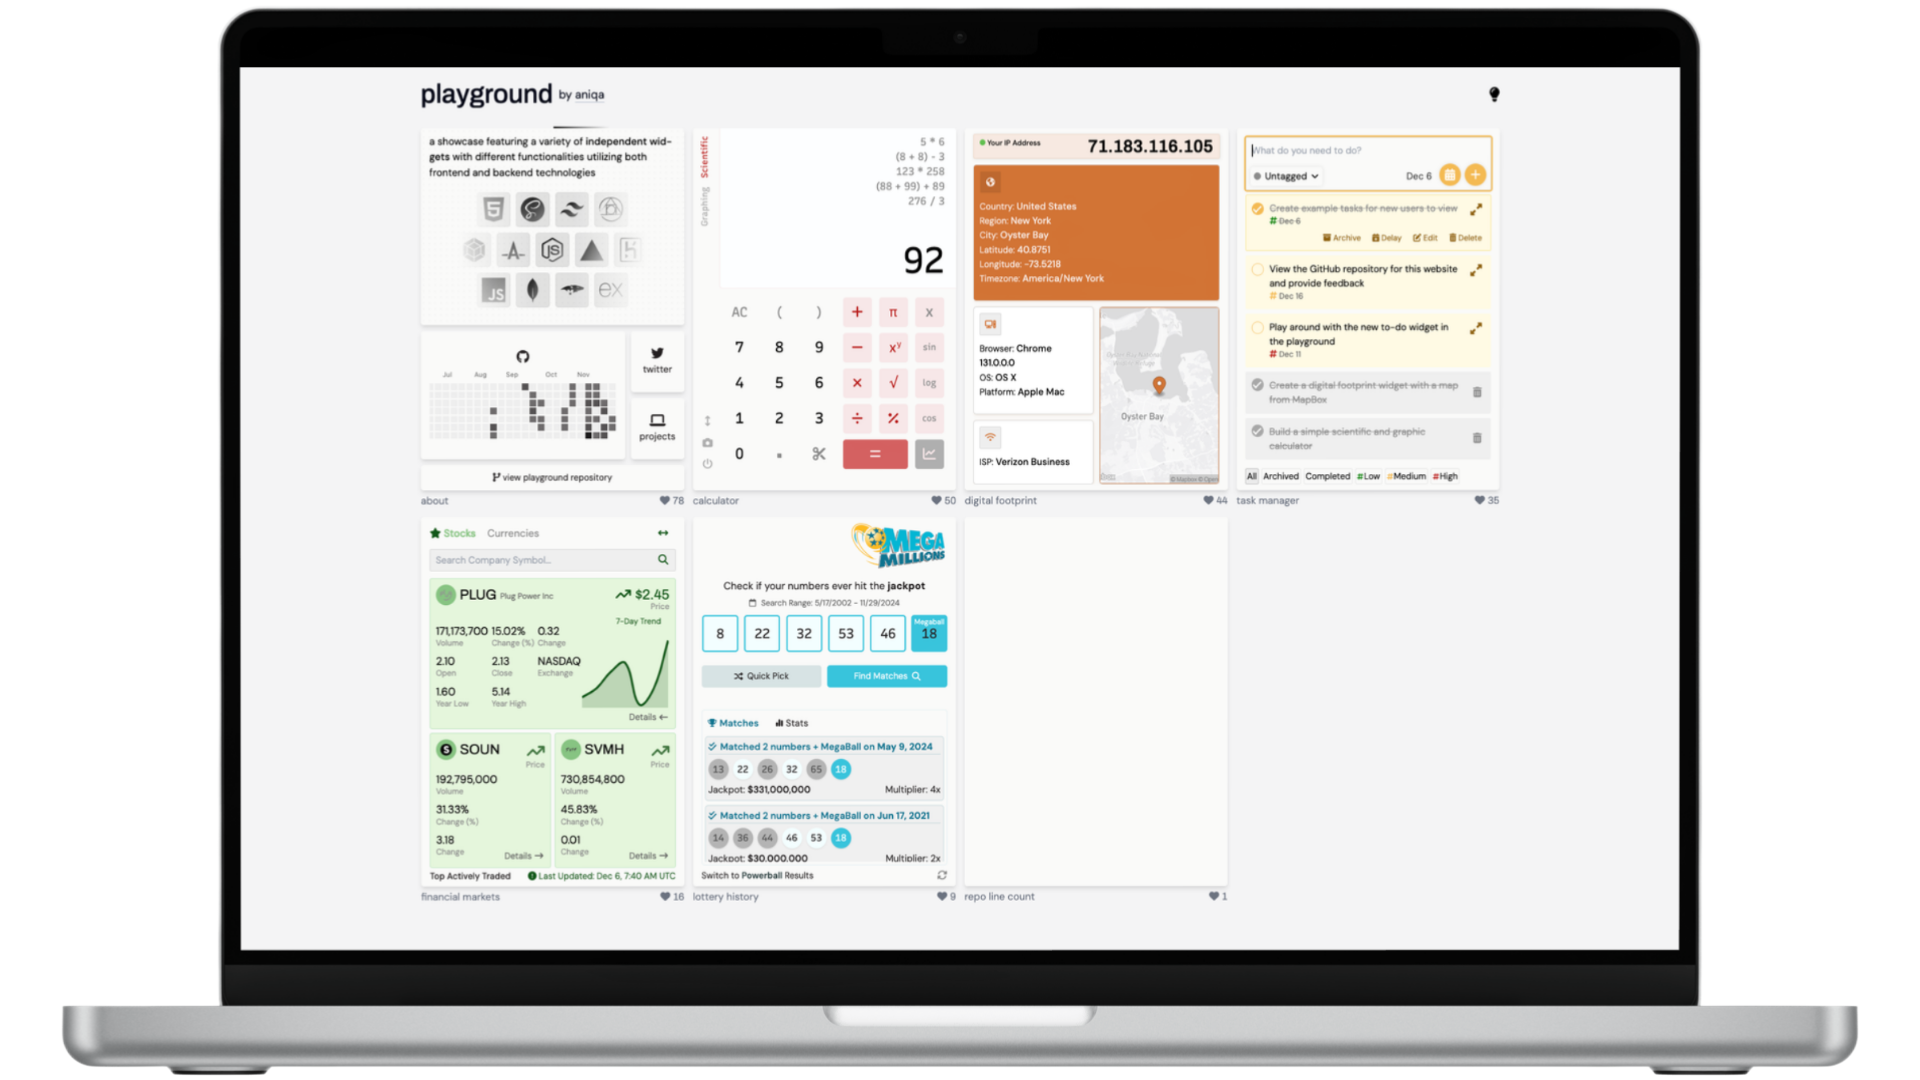
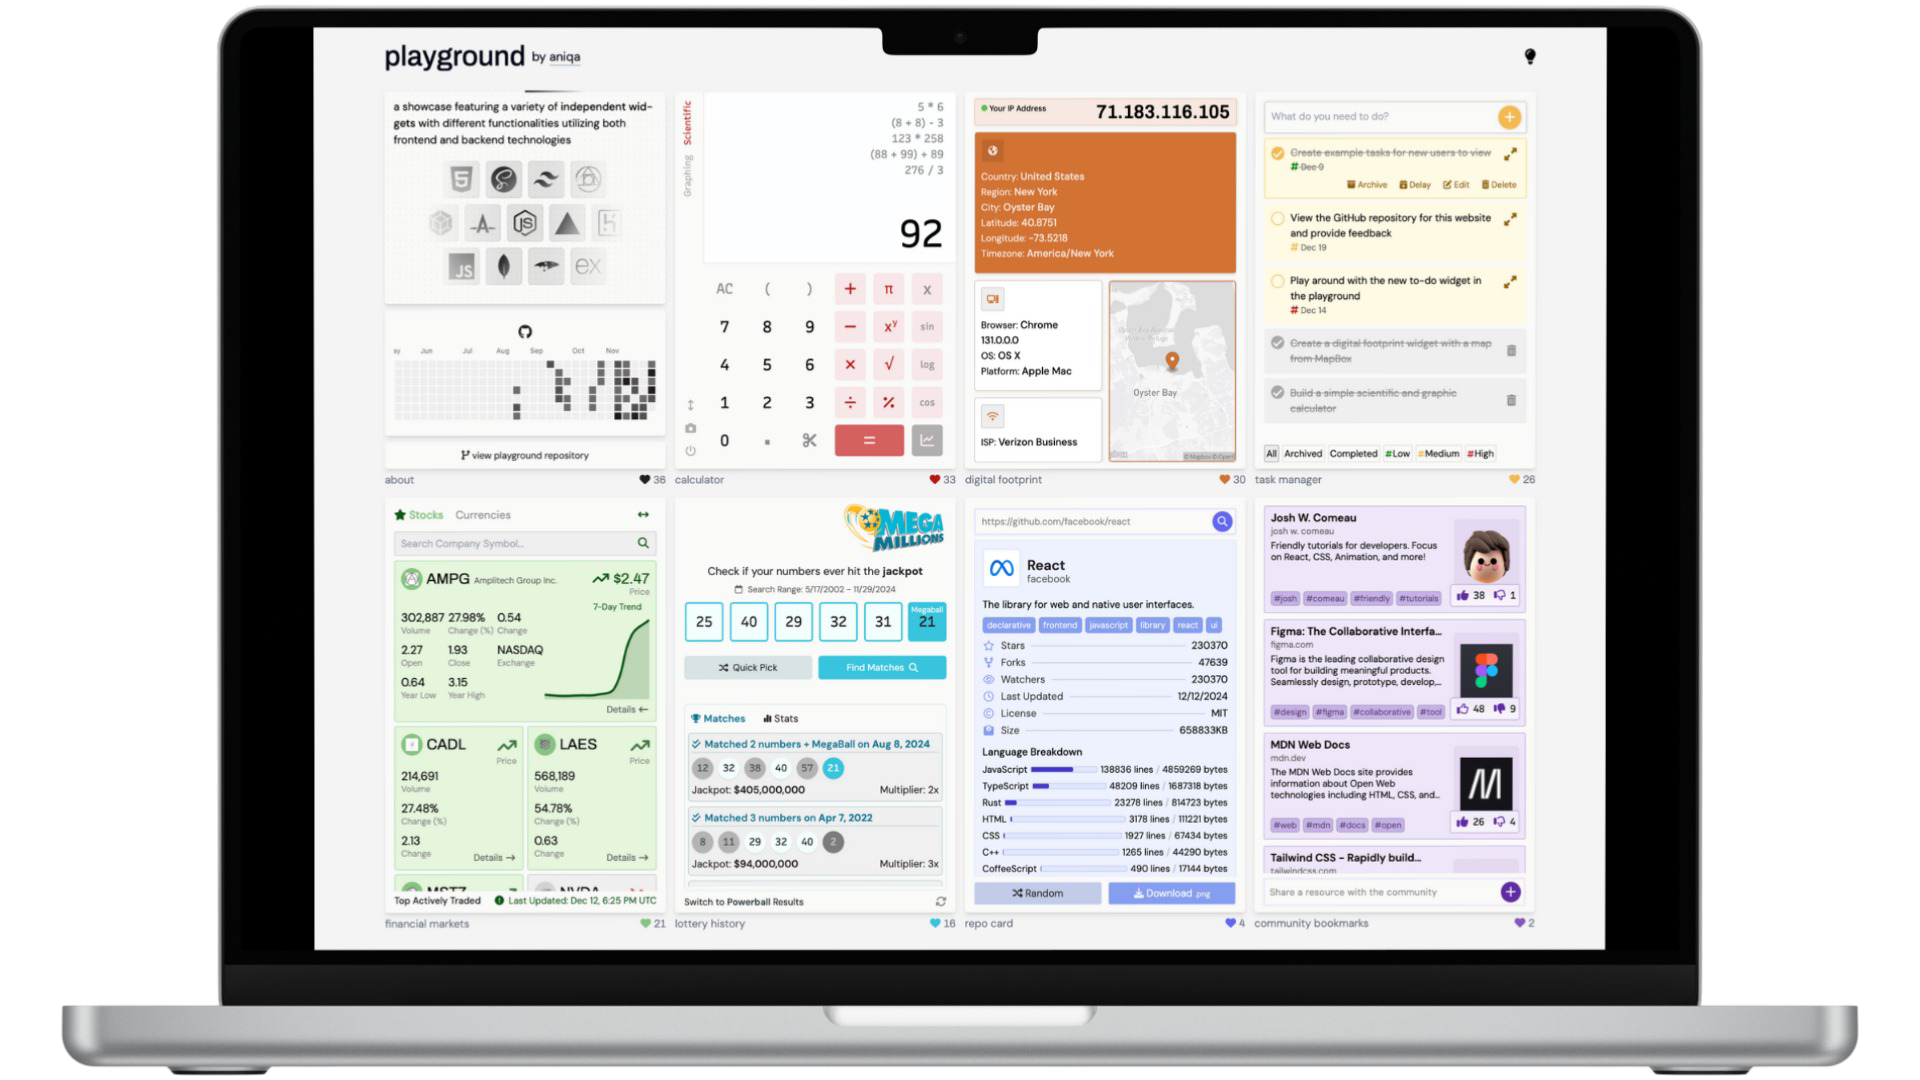
project: update playground

Changed region(s): [[0.0938, 0.0, 0.875, 0.8861], [0.375, 0.275, 0.4062, 0.3056]]

diff --git a/index.html b/index.html
@@ -158,11 +158,12 @@
 					<li class="tag-x-special"><i class="fa-solid fa-network-wired"></i> Full Stack</li>
 					<li class="tag-special"><i class="fa-solid fa-mobile-screen-button"></i> PWA</li>
 					<li class="tag-special"><i class="fa-solid fa-cube"></i> Webpack</li>
+					<li><i class="fa-solid fa-broom"></i> ESLint</li>
 					<li><i class="fa-solid fa-code-compare"></i> APIs</li>
-					<li><i class="fa-brands fa-square-js"></i> Node.js</li>
-					<li><i class="fa-brands fa-node-js"></i> Express</li>
 					<li><i class="fa-solid fa-leaf"></i> MongoDB</li>
 					<li><i class="fa-solid fa-leaf"></i> Mongoose</li>
+					<li><i class="fa-brands fa-square-js"></i> Node.js</li>
+					<li><i class="fa-brands fa-node-js"></i> Express</li>
 					<li><i class="fa-brands fa-square-js"></i> JavaScript</li>
 					<li><i class="fa-solid fa-wind"></i> Tailwind</li>
 					<li><i class="fa-brands fa-sass"></i> Sass</li>
@@ -172,11 +173,12 @@
 				</ul>
 				<p>
 					A dynamic collection of independent, interactive widgets showcasing various web
-					functionalities. Features include a dual-mode calculator with function graphing, a digital
-					footprint dashboard with geolocation mapping, a task tracker with priority management,
-					real-time financial markets monitor, and a historical lottery analysis tool. Built with a
-					full stack using Node/Express backend, MongoDB database, and a Webpack-optimized frontend
-					utilizing Tailwind CSS and Sass.
+					functionalities. Includes a geolocation-based digital footprint analyzer, dual-mode
+					calculator, task management system, real-time financial markets dashboard, historical
+					lottery data analysis tool, GitHub repository visualizer, and a community-driven bookmark
+					widget. Built with a Node.js/Express backend, MongoDB database, and a Webpack-optimized
+					frontend utilizing Tailwind CSS and Sass, each widget represents different aspects of
+					full-stack development while maintaining a cohesive user experience.
 				</p>
 				<div class="demo-img-wrapper">
 					<a

diff --git a/README.md b/README.md
@@ -17,7 +17,7 @@ A directory showcasing all my completed and ongoing web development projects —
 
 [https://playground.aniqa.dev/](https://playground.aniqa.dev/)
 
-A dynamic collection of independent, interactive widgets showcasing various web functionalities. Features include a dual-mode calculator with function graphing, a digital footprint dashboard with geolocation mapping, a task tracker with priority management, real-time financial markets monitor, and a historical lottery analysis tool. Built with a full stack using Node/Express backend, MongoDB database, and a Webpack-optimized frontend utilizing Tailwind CSS.
+A place to showcase a collection of independent, interactive widgets that each demonstrate a different functionality using both frontend and backend technologies. The collection includes a geolocation-based digital footprint analyzer, dual-mode calculator, a MongoDB-powered task management system, real-time financial markets dashboard, historical lottery data analysis tool, a GitHub repository visualizer, and a community-driven bookmark widget with automated metadata extraction. Built with a Node.js/Express backend, MongoDB database, and a Webpack-optimized frontend utilizing Tailwind CSS and Sass, each widget represents different aspects of full-stack development while maintaining a cohesive user experience.
 
 ### 🤖 AI Coding Assistance Chat
 
